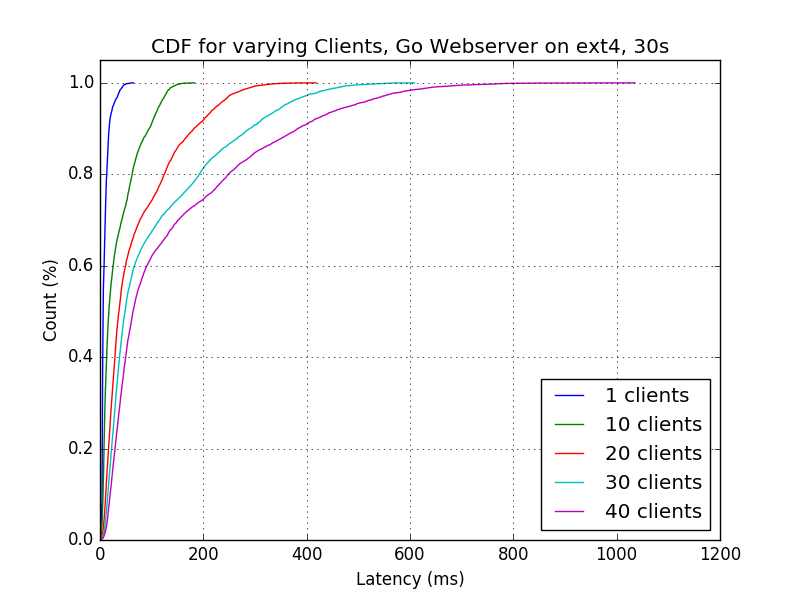
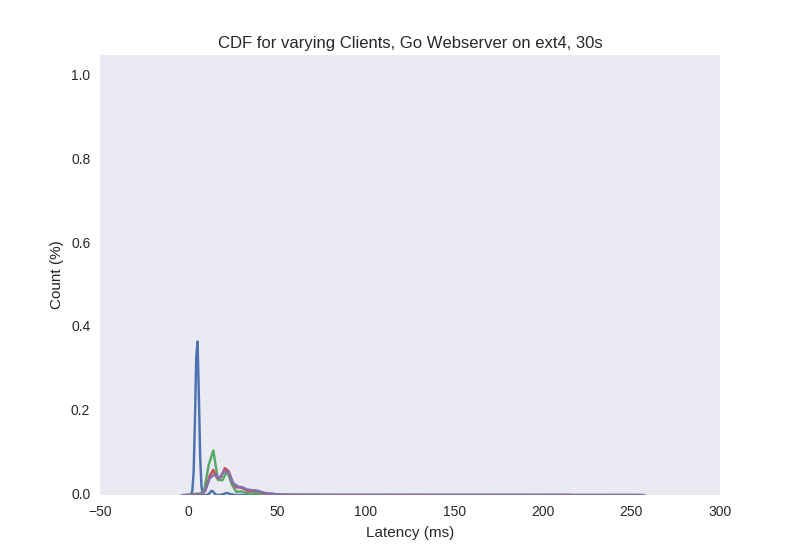
working on pdfs

diff --git a/output.py b/output.py
@@ -7,8 +7,12 @@ import glob
 import os
 import sys
 
-import numpy
-import matplotlib.pyplot as plot
+import numpy as np
+from scipy.stats.kde import gaussian_kde
+import seaborn as sns
+
+from numpy import linspace
+import matplotlib.pyplot as plt
 from math import ceil, floor, sqrt
 from scipy import stats
 
@@ -18,6 +22,7 @@ import runner
 FILE_SEPERATOR = '\\' if os.name == 'nt' else '/'
 RESULTS_PATH = 'results'
 GRAPH_PATH = 'graphs'
+PDF_BINS = 50
 
 
 class ResultRow():
@@ -48,10 +53,6 @@ class MacroResults():
         self.requests = int(split[1].replace('r', ''))
         self.pretty_name = 'Apache' if self.test is 'apache' else 'Go Webserver'
 
-        # if self.test is 'apache':
-        #     self.unique = split[2]
-        # self.pretty_name = 'Apache'
-
         # Load the data
         with open(filepath, 'r') as f:
             self.lines = sorted([ResultRow(x) for x in f.readlines()], key=lambda x: x.start_time)
@@ -67,106 +68,89 @@ def latency_scatter(result, output_subfolder):
     time = [x.start_time - result.start for x in result.lines]
     lat = [x.diff_time for x in result.lines]
 
-    plot.scatter(time, lat, label="N=" + " M=")
-    plot.xlim([0, result.end - result.start])
-    plot.ylim([0, result.max_value])
+    plt.scatter(time, lat, label="N=" + " M=")
+    plt.xlim([0, result.end - result.start])
+    plt.ylim([0, result.max_value])
 
-    plot.title('{} clients, {}, {}, {}s'.format(result.clients, result.pretty_name, result.fs, result.requests))
-    plot.ylabel('Latency (ms)')
-    plot.xlabel('Time (ms)')
+    plt.title('{} clients, {}, {}, {}s'.format(result.clients, result.pretty_name, result.fs, result.requests))
+    plt.ylabel('Latency (ms)')
+    plt.xlabel('Time (ms)')
 
-    show_or_save(result, output_subfolder)
-    plot.clf()
+    plt.savefig(os.path.join(output_subfolder, result.fs + '-' + result.name))
+    plt.clf()
 
 
 def latency_cdf(result, output_subfolder):
-    data = numpy.sort(map(lambda x: x.diff_time, result.lines))
+    data = np.sort(map(lambda x: x.diff_time, result.lines))
 
-    plot.plot(data, numpy.linspace(0, 1, len(data)))
-    plot.xlim([0, result.max_value])
-    plot.ylim([0, 1])
-    plot.grid()
+    plot_pdf(data)
 
-    plot.title('{} clients, {}, {}, {}s'.format(result.clients, result.pretty_name, result.fs, result.requests))
-    plot.ylabel('Count')
-    plot.xlabel('Latency (ms)')
+    plt.xlim([0, result.max_value])
+    plt.ylim([0, 1])
+    plt.grid()
 
-    show_or_save(result, output_subfolder)
-    plot.clf()
+    plt.title('{} clients, {}, {}, {}s'.format(result.clients, result.pretty_name, result.fs, result.requests))
+    plt.ylabel('Count')
+    plt.xlabel('Latency (ms)')
+
+    plt.savefig(os.path.join(output_subfolder, result.fs + '-' + result.name))
+    plt.clf()
 
 
 def latency_boxplot(result, output_subfolder=None):
-    bins = numpy.linspace(result.start, result.end, 30)
+    bins = np.linspace(result.start, result.end, 30)
     binned = [filter(lambda x: maxx > x.start_time > minn, result.lines) for (minn, maxx) in zip(bins[:-1], bins[1:])]
     binned = [map(lambda x: x.diff_time, y) for y in binned]
 
-    plot.boxplot(binned, 0, '')
-    plot.ylabel('Request Latency (ms)')
-    plot.xlabel('Time (s)')
-    plot.title('Boxed latency for {} clients, {}, {}s'.format(result.clients, result.pretty_name, result.requests))
-    show_or_save(result, output_subfolder)
-    plot.clf()
+    plt.boxplot(binned, 0, '')
+    plt.ylabel('Request Latency (ms)')
+    plt.xlabel('Time (s)')
+    plt.title('Boxed latency for {} clients, {}, {}s'.format(result.clients, result.pretty_name, result.requests))
+
+    plt.savefig(os.path.join(output_subfolder, result.fs + '-' + result.name))
+    plt.clf()
 
 
-def aggregate_boxplot(results, output_subfolder):
-    for test_group in zip(*[filter(lambda x: x.fs == fs, results) for fs in ['ntfs', 'ext4', 'zfs']]):
-        for fs in test_group:
-            bins = numpy.linspace(fs.start, fs.end, 30)
-            binned = [filter(lambda x: maxx > x.start_time > minn, fs.lines) for (minn, maxx) in zip(bins[:-1], bins[1:])]
-            binned = [map(lambda x: x.diff_time, y) for y in binned]
-            medians = [numpy.median(x) for x in binned]
+def plot_pdf(data, bins=PDF_BINS, label=None):
+    sns.kdeplot(np.array(data))
+    return
+    # Plots a pdf but doesnt save it
+    plt.subplot(211)
+    hist, bins = np.histogram(data, bins=bins, density=False)
+    bin_centers = (bins[1:] + bins[:-1]) * 0.5
+    avg = [float(x) / float(len(data)) for x in hist]
+    plt.plot(bin_centers, avg)
 
-            line = plot.plot([0] + medians, label=fs.fs)
-            color = line[0].get_color()
-            boxes = plot.boxplot(binned, 0, '')
-
-            plot.setp(boxes['boxes'], color=line[0].get_color())
-            plot.setp(boxes['whiskers'], color=color)
-            plot.setp(boxes['caps'], color=color)
-            plot.setp(boxes['fliers'], color=color, marker='o')
-            plot.setp(boxes['medians'], color=color)
-
-        plot.ylabel('Request Latency (ms)')
-        plot.xlabel('Time (s)')
-        plot.title('Boxed latency for {} clients, {}, {}s'.format(test_group[0].clients, test_group[0].pretty_name, test_group[0].requests))
-        plot.legend(loc='upper left')
-
-        if test_group[0].clients == 40 and test_group[0].test == 'apache':
-            plot.ylim([02, 200])
-
-        plot.grid()
-
-        # if test_group[0].test == 'apache':
-        #     plot.savefig(os.path.join(output_subfolder, '{}-{}-{}'.format(test_group[0].clients, test_group[0].requests, test_group[0].unique)))
-        # else:
-        plot.savefig(os.path.join(output_subfolder, '{}-{}'.format(test_group[0].clients, test_group[0].requests)))
-
-        plot.clf()
+    kde = gaussian_kde(data)
+    dist_space = linspace(min(data), max(data), 500)
+    plt.subplot(212)
+    plt.plot(dist_space, kde(dist_space), label=label)
 
 
 def aggregate_client_cdf(results, output_subfolder):
     for test_group in zip(*[filter(lambda x: x.fs == fs, results) for fs in ['ntfs', 'ext4', 'zfs']]):
         for fs in test_group:
-            latencies = map(lambda x: x.diff_time, fs.lines)
-            cdfx = numpy.sort(latencies)
-            plot.plot(cdfx, numpy.linspace(0, 1, len(cdfx)), label=fs.fs)
+            data = map(lambda x: x.diff_time, fs.lines)
 
-        plot.ylabel('Count (%)')
-        plot.xlabel('Request Latency (ms)')
-        plot.title('CDF for {} clients, {}, {}s'.format(test_group[0].clients, test_group[0].pretty_name, test_group[0].requests))
-        plot.legend(loc='lower right')
+            # hist, bins = np.histogram(data, bins=PDF_BINS, density=False)
+            # bin_centers = (bins[1:] + bins[:-1]) * 0.5
+            # avg = [float(x) / float(len(data)) for x in hist]
+            # plt.plot(bin_centers, avg, label=fs.fs)
 
-        plot.xlim([0, max(map(lambda x: x.max_value, test_group))])
-        # plot.xlim([0, 100])
-        plot.ylim([0, 1.05])
-        plot.grid()
+            plot_pdf(data, label=fs.fs)
 
-        # if test_group[0].test == 'apache':
-        #     plot.savefig(os.path.join(output_subfolder, '{}-{}-{}'.format(test_group[0].clients, test_group[0].requests, test_group[0].unique)))
-        # else:
-        plot.savefig(os.path.join(output_subfolder, '{}-{}'.format(test_group[0].clients, test_group[0].requests)))
+        plt.ylabel('Count (%)')
+        plt.xlabel('Request Latency (ms)')
+        plt.title('CDF for {} clients, {}, {}s'.format(test_group[0].clients, test_group[0].pretty_name, test_group[0].requests))
+        plt.legend(loc='lower right')
 
-        plot.clf()
+        plt.xlim([0, max(map(lambda x: x.max_value, test_group))])
+        # plt.xlim([0, 100])
+        plt.ylim([0, 1.05])
+
+        plt.grid()
+        plt.savefig(os.path.join(output_subfolder, '{}-{}'.format(test_group[0].clients, test_group[0].requests)))
+        plt.clf()
 
 
 def aggregate_platform_cdf(results, output_subfolder):
@@ -174,37 +158,31 @@ def aggregate_platform_cdf(results, output_subfolder):
 
     for fs_slice in [filter(lambda x: x.fs == fs, results) for fs in ['ntfs', 'ext4', 'zfs']]:
         for test_slice in [filter(lambda x: x.test == test, fs_slice) for test in ['go-pg', 'apache']]:
-            if len(test_slice) == 0:
-                continue
-            tests.append(test_slice)
-
-            # if test_slice[0].test == 'apache':
-            #     tests.append(filter(lambda x: 'unique' in x.name, test_slice))
-            #     tests.append(filter(lambda x: 'unique' not in x.name, test_slice))
-            # else:
-            #     tests.append(test_slice)
+            if len(test_slice) != 0:
+                tests.append(test_slice)
 
     for test_group in tests:
         for fs in sorted(test_group, key=lambda x: x.clients):
-            latencies = map(lambda x: x.diff_time, fs.lines)
-            cdfx = numpy.sort(latencies)
-            plot.plot(cdfx, numpy.linspace(0, 1, len(cdfx)), label=str(fs.clients) + " clients")
+            data = map(lambda x: x.diff_time, fs.lines)
 
-        plot.ylabel('Count (%)')
-        plot.xlabel('Latency (ms)')
-        plot.title('CDF for varying Clients, {} on {}, {}s'.format(test_group[0].pretty_name, test_group[0].fs, test_group[0].requests))
-        plot.legend(loc='lower right')
+            # hist, bins = np.histogram(data, bins=PDF_BINS, density=False)
+            # bin_centers = (bins[1:] + bins[:-1]) * 0.5
+            # avg = [float(x) / float(len(data)) for x in hist]
+            # plt.plot(bin_centers, avg, label=str(fs.clients) + " clients")
 
-        # plot.xlim([0, 100])
-        plot.ylim([0, 1.05])
-        plot.grid()
+            plot_pdf(data, label=str(fs.clients) + " clients")
 
-        # if test_group[0].test == 'apache':
-        #     plot.savefig(os.path.join(output_subfolder, '{}-{}'.format(test_group[0].fs, test_group[0].unique)))
-        # else:
-        plot.savefig(os.path.join(output_subfolder, '{}'.format(test_group[0].fs)))
+        plt.ylabel('Count (%)')
+        plt.xlabel('Latency (ms)')
+        plt.title('CDF for varying Clients, {} on {}, {}s'.format(test_group[0].pretty_name, test_group[0].fs, test_group[0].requests))
+        plt.legend(loc='lower right')
 
-        plot.clf()
+        # plt.xlim([0, 100])
+        plt.ylim([0, 1.05])
+
+        plt.grid()
+        plt.savefig(os.path.join(output_subfolder, '{}'.format(test_group[0].fs)))
+        plt.clf()
 
 
 def load_macrobenchmarks():
@@ -214,57 +192,59 @@ def load_macrobenchmarks():
             for file in glob.glob(os.path.join(RESULTS_PATH, fs, test, '*'))]
 
 
-def load_microbenchmarks():
-    return [MicroResults(fs, test, file)
-            for test in ['microbenchmarks']
-            for fs in ['ntfs', 'ext4', 'zfs']
-            for file in glob.glob(os.path.join(RESULTS_PATH, fs, test, '*'))]
-
-
-def show_or_save(result, output_subfolder):
-    if output_subfolder is None:
-        plot.show()
-    else:
-        plot.savefig(os.path.join(output_subfolder, result.fs + '-' + result.name))
-
-    plot.clf()
-
-
 def graph(all_data):
     for test in ['apache', 'go-pg']:
         data = filter(lambda x: x.test == test, all_data)
 
-        # Individual scatter plots
-        p = os.path.join(GRAPH_PATH, test, 'scatter')
+        # # Individual scatter plots
+        # p = os.path.join(GRAPH_PATH, test, 'scatter')
+        # runner.cleardir(p)
+        # [latency_scatter(d, p) for d in data]
+
+        # Individual CDFs
+        p = os.path.join(GRAPH_PATH, test, 'cdf')
         runner.cleardir(p)
-        [latency_scatter(d, p) for d in data]
+        [latency_cdf(d, p) for d in data]
 
-        # # Individual CDFs
-        # p = os.path.join(GRAPH_PATH, test, 'cdf')
-        # runner.cleardir(p)
-        # [latency_cdf(d, p) for d in data]
+        # Aggregate CDFs per # clients
+        p = os.path.join(GRAPH_PATH, test, 'aggregate-client-cdf')
+        runner.cleardir(p)
+        aggregate_client_cdf(data, p)
 
-        # # Aggregate CDFs per # clients
-        # p = os.path.join(GRAPH_PATH, test, 'aggregate-client-cdf')
-        # runner.cleardir(p)
-        # aggregate_client_cdf(data, p)
+        # Aggregate CDFs per fs
+        p = os.path.join(GRAPH_PATH, test, 'aggregate-fs-cdf')
+        runner.cleardir(p)
+        aggregate_platform_cdf(data, p)
 
-        # # Aggregate CDFs per fs
-        # p = os.path.join(GRAPH_PATH, test, 'aggregate-fs-cdf')
-        # runner.cleardir(p)
-        # aggregate_platform_cdf(data, p)
 
-        # # Aggregate Boxplotss
-        # p = os.path.join(GRAPH_PATH, test, 'aggregate-boxplot')
-        # runner.cleardir(p)
-        # aggregate_boxplot(data, p)
+def test_pdf():
+    # Design note: this is an excellent API because it needs the minimum amount of information to dive down the tree
+    # without corralling it all together into a full filename (minus requiring the whole name at the end,
+    # that was immensely stupid.
+    result = MacroResults('zfs', 'apache', 'results/zfs/apache/10c-30r')
+    data = np.array([x.diff_time for x in result.lines])
 
-        # # Individual Boxplots
-        # p = os.path.join(GRAPH_PATH, test, 'boxplot')
-        # runner.cleardir(p)
-        # [latency_boxplot(d, p) for d in data]
+    # Method 1
+    plt.subplot(311)
+    hist, bins = np.histogram(data, bins=400, density=False)
+    bin_centers = (bins[1:] + bins[:-1]) * 0.5
+    avg = [float(x) / float(len(data)) for x in hist]
+    plt.plot(bin_centers, avg)
 
+    # Method 2
+    kde = gaussian_kde(data)
+    dist_space = linspace(min(data), max(data), 100)
+    plt.subplot(312)
+    plt.plot(dist_space, kde(dist_space))
+
+    # Method 3
+    plt.subplot(313)
+    # sns.set_style('whitegrid')
+    sns.kdeplot(np.array(data))
+
+    plt.show()
 
 if __name__ == '__main__':
     all_data = load_macrobenchmarks()
     graph(all_data)
+    # test_pdf()
